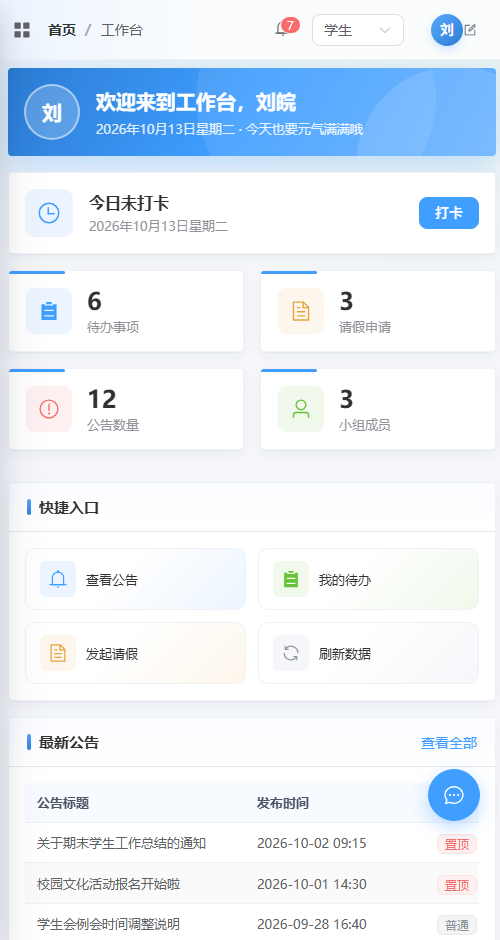
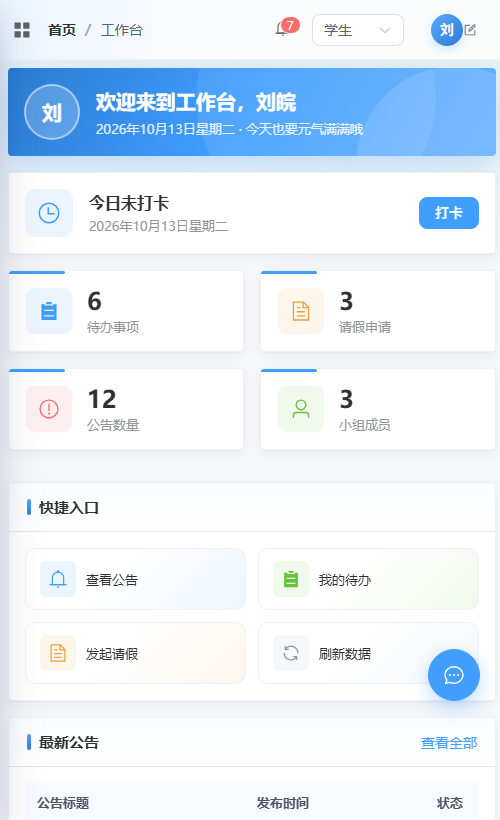
feat: 公告页手机版只列标题（点开看详情）；断点判断抽成 useMediaQuery；窄屏隐藏页头说明文字

diff --git a/liuwan/views/notice/components/NoticeTable.vue b/liuwan/views/notice/components/NoticeTable.vue
@@ -1,6 +1,23 @@
 <template>
   <el-card shadow="never" class="section">
-    <el-table v-loading="loading" :data="list" stripe style="width: 100%">
+    <!--
+      手机：只列标题，点标题看详情。
+      六列表格在 390px 宽下要横向滚，序号/发布人/发布时间都挤成一团，
+      而那些信息在详情弹窗里都有 —— 列表上真正需要的只有「叫什么」。
+    -->
+    <template v-if="isMobile">
+      <ul v-if="list.length" class="notice-list">
+        <li v-for="row in list" :key="row.id">
+          <button type="button" class="notice-list__item" @click="emit('detail', row)">
+            <span class="notice-list__title">{{ row.title }}</span>
+            <el-tag v-if="row.top" type="danger" size="small" effect="light">置顶</el-tag>
+          </button>
+        </li>
+      </ul>
+      <el-empty v-else :image-size="72" description="没有找到符合条件的公告" />
+    </template>
+
+    <el-table v-else v-loading="loading" :data="list" stripe style="width: 100%">
       <el-table-column type="index" label="序号" width="70" align="center" />
       <el-table-column prop="title" label="公告标题" min-width="240" show-overflow-tooltip>
         <template #default="{ row }">
@@ -38,7 +55,7 @@
         v-model:page-size="pageSize"
         :page-sizes="[5, 10, 20]"
         :total="total"
-        layout="total, sizes, prev, pager, next, jumper"
+        :layout="paginationLayout"
         background
         @size-change="emit('size-change', $event)"
       />
@@ -48,10 +65,12 @@
 
 <script setup>
 /**
- * 公告表格：只负责展示当前页数据和分页控件。
+ * 公告列表：手机上一列标题，电脑上是表格。
  * 列表切片、总数、每页条数都由父级算好后传进来。
  */
+import { computed } from 'vue'
 import { View } from '@element-plus/icons-vue'
+import { useIsMobile } from '@/composables/useMediaQuery'
 
 defineProps({
   list: { type: Array, required: true },
@@ -60,6 +79,13 @@ defineProps({
 })
 
 const emit = defineEmits(['detail', 'size-change'])
+
+const isMobile = useIsMobile()
+
+/** 手机上「总数/每页条数/跳页」这一长串放不下，只留翻页 */
+const paginationLayout = computed(() =>
+  isMobile.value ? 'prev, pager, next' : 'total, sizes, prev, pager, next, jumper',
+)
 
 /** 类型 -> 标签颜色 */
 const typeTagMap = { 通知: 'primary', 活动: 'success', 制度: 'warning' }
@@ -86,9 +112,54 @@ const pageSize = defineModel('pageSize', { type: Number, default: 5 })
   margin-left: 8px;
 }
 
+/* ---------- 手机版：只有标题的一列清单 ---------- */
+.notice-list {
+  margin: 0;
+  padding: 0;
+  list-style: none;
+}
+
+.notice-list__item {
+  display: flex;
+  align-items: center;
+  justify-content: space-between;
+  gap: 10px;
+  width: 100%;
+  padding: 14px 0;
+  border: none;
+  border-bottom: 1px solid var(--st-border-color-hair);
+  font: inherit;
+  font-size: 15px;
+  color: var(--st-text-primary);
+  text-align: left;
+  appearance: none;
+  background: none;
+  cursor: pointer;
+  transition: color var(--st-duration-fast) var(--st-ease);
+}
+
+.notice-list li:last-child .notice-list__item {
+  border-bottom: none;
+}
+
+.notice-list__item:active {
+  color: var(--st-primary);
+}
+
+.notice-list__title {
+  flex: 1;
+  min-width: 0;
+}
+
 .pagination {
   display: flex;
   justify-content: flex-end;
   margin-top: var(--st-gap-base);
+}
+
+@media (max-width: 768px) {
+  .pagination {
+    justify-content: center;
+  }
 }
 </style>

diff --git a/src/layout/BasicLayout.vue b/src/layout/BasicLayout.vue
@@ -159,6 +159,7 @@ import {
   School,
 } from '@element-plus/icons-vue'
 import { useUserProfile } from '@/composables/userProfile'
+import { useIsMobile } from '@/composables/useMediaQuery'
 import {
   isNotificationRead,
   markAllNotificationsRead,
@@ -186,18 +187,16 @@ const isCollapse = ref(false)
  * ------------------------------------------------------------
  * 屏幕窄的时候，侧边栏不再是「折叠成窄条」，而是变成从左边滑出来的抽屉。
  * 因为手机上窄条菜单又占位置又点不准，盖在内容上更实用。
+ *
+ * 判断逻辑在 composables/useMediaQuery.js（公告页也用同一个断点）。
  * ============================================================ */
-const MOBILE_QUERY = '(max-width: 768px)'
-const isMobile = ref(false)
+const isMobile = useIsMobile()
 const mobileMenuOpen = ref(false)
 
-let mediaQuery = null
-
-function syncIsMobile(event) {
-  isMobile.value = event.matches
-  // 回到电脑宽度就把抽屉收起来，不然会留个悬空状态
-  if (!event.matches) mobileMenuOpen.value = false
-}
+// 回到电脑宽度就把抽屉收起来，不然会留个悬空状态
+watch(isMobile, (窄) => {
+  if (!窄) mobileMenuOpen.value = false
+})
 
 /** 手机上永远展开（抽屉里塞个窄条图标没有意义） */
 const sidebarCollapsed = computed(() => !isMobile.value && isCollapse.value)
@@ -233,14 +232,10 @@ function onKeydown(event) {
 }
 
 onMounted(() => {
-  mediaQuery = window.matchMedia(MOBILE_QUERY)
-  syncIsMobile(mediaQuery)
-  mediaQuery.addEventListener('change', syncIsMobile)
   window.addEventListener('keydown', onKeydown)
 })
 
 onBeforeUnmount(() => {
-  mediaQuery?.removeEventListener('change', syncIsMobile)
   window.removeEventListener('keydown', onKeydown)
 })
 

diff --git a/src/composables/useMediaQuery.js b/src/composables/useMediaQuery.js
@@ -1,0 +1,56 @@
+/**
+ * 把 CSS 媒体查询搬进 JS
+ * ======================
+ *
+ * 为什么需要它：
+ *   有些适配光靠 CSS 改不了。比如公告页，手机上是「一列标题」，
+ *   电脑上是「六列表格」—— 这是两套完全不同的结构，不是改两个宽度就行的，
+ *   只能用 v-if 切。这类判断就得在 JS 里做。
+ *
+ * 用法：
+ *   const isMobile = useIsMobile()
+ *   <div v-if="isMobile">手机版</div>
+ *   <div v-else>电脑版</div>
+ *
+ * ⚠ 断点值必须和 CSS 里的 @media 一致，所以在这里导出一个常量，
+ *    JS 和 CSS 都认同一个数，改的时候不会漏掉一边。
+ *    （CSS 里的 @media (max-width: 768px) 是手写的，改断点要一起改。）
+ *
+ * ⚠ 初始值是**同步**取的（不是等 onMounted 再取），
+ *    否则第一帧会先按电脑版渲染、再跳成手机版，能看见一下闪动。
+ */
+import { onBeforeUnmount, onMounted, ref } from 'vue'
+
+/** 全站唯一的移动端断点 */
+export const MOBILE_QUERY = '(max-width: 768px)'
+
+export function useMediaQuery(query) {
+  const matches = ref(
+    typeof window !== 'undefined' && typeof window.matchMedia === 'function'
+      ? window.matchMedia(query).matches
+      : false,
+  )
+
+  let mql = null
+
+  function sync(event) {
+    matches.value = event.matches
+  }
+
+  onMounted(() => {
+    mql = window.matchMedia(query)
+    sync(mql)
+    mql.addEventListener('change', sync)
+  })
+
+  onBeforeUnmount(() => {
+    mql?.removeEventListener('change', sync)
+  })
+
+  return matches
+}
+
+/** 是不是手机宽度（≤768px） */
+export function useIsMobile() {
+  return useMediaQuery(MOBILE_QUERY)
+}

diff --git a/src/assets/styles/global.css b/src/assets/styles/global.css
@@ -387,6 +387,14 @@ a {
     font-size: 18px;
   }
 
+  /*
+   * 手机上说明文字纯占地方（一屏就那么高），标题已经说清楚了。
+   * ⚠ 同样要三层选择器才压得住各页面 scoped 里的 .page-desc。
+   */
+  .layout .layout__main .page-desc {
+    display: none;
+  }
+
   /* 弹窗别顶到屏幕边，也别离顶部太远 */
   .el-dialog {
     width: 92% !important;

diff --git a/README.md b/README.md
@@ -35,7 +35,12 @@
 > 📘 **架构文档**：[docs/项目框架.md](docs/项目框架.md) —— 目录职责、数据流、分工边界。
 
 **响应式**：适配到手机。屏幕窄于 768px 时侧边栏自动变成抽屉，统计卡片改为一行两张，
-页头改竖排，弹窗占满宽度。只用断点变量和媒体查询做的，没引任何 UI 框架。
+页头改竖排，弹窗占满宽度，页头那句说明文字直接隐藏（一屏就那么高，标题够了）。
+只用断点变量和媒体查询做的，没引任何 UI 框架。
+
+**公告页在手机上只列标题** —— 六列表格在 390px 宽下要横向滚，序号 / 发布人 / 发布时间挤成一团，
+而这些信息详情弹窗里都有。所以窄屏只留「叫什么」，点标题看详情；分页也只留翻页按钮。
+判断用 `src/composables/useMediaQuery.js`（和 CSS 断点共用一个常量）。
 
 **交互细节**：
 
@@ -290,7 +295,11 @@ zuoye/
 
 **手机端** —— 侧边栏变成从左侧滑出的抽屉（点汉堡按钮开，点遮罩 / 按 Esc / 跳页面都会自动收起）
 
-<img src="docs/screenshots/06-mobile.png" width="360" alt="手机端" />
+<img src="docs/screenshots/06-mobile.png" width="340" alt="手机端工作台" />
+
+**手机端 · 公告通知** —— 窄屏只列标题，点标题看详情
+
+<img src="docs/screenshots/07-notice-mobile.png" width="340" alt="手机端公告页" />
 
 ## 九、开发进度
 
@@ -321,6 +330,7 @@ zuoye/
 - [x] 移动端适配（窄屏侧边栏变抽屉，断点 768px）
 - [x] AI 悬浮球可拖动 + 边缘吸附（位置记在 localStorage）
 - [x] 待办事项左滑操作（抽出 `src/components/SwipeRow.vue`，别人也能复用）
+- [x] 公告页手机版只显示标题（断点判断抽成 `src/composables/useMediaQuery.js`）
 - [ ] AI 代理部署到线上服务器
 - [ ] 后端接口对接
 - [ ] 把假数据换成数据库（`src/mock/` 和 `server/mock_data.py` 一起换）
